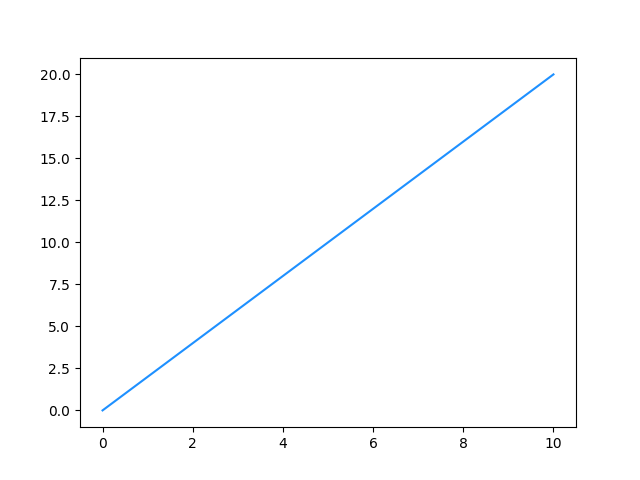
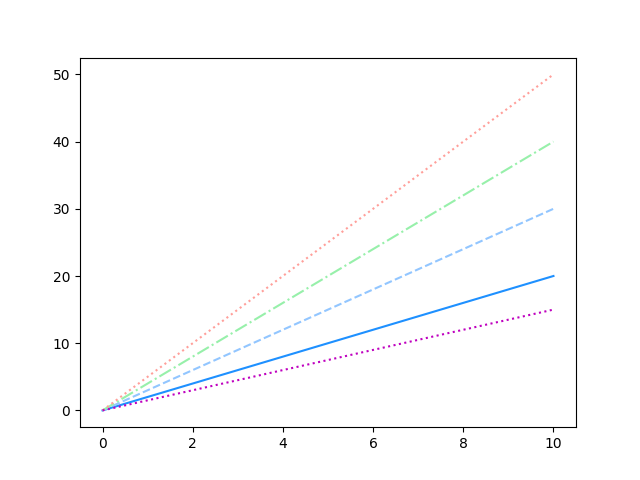
scatterplots

diff --git a/lineplot.py b/lineplot.py
@@ -18,6 +18,7 @@ plt.plot(x_vals, np.cos(x_vals))
 
 # Save figure as PNG in current directory
 plt.savefig('lineplot.png')
+plt.close() # clear the plot before making another
 
 # Alternatively, set up a Figure OBJECT for the plot
 fig = plt.figure()
@@ -25,7 +26,31 @@ ax = plt.axes()
 
 # Plot a function on the Axes object instance
 ax.plot(x_vals, 2*(x_vals), color='dodgerblue')
+ax.plot(x_vals, 3*(x_vals), linestyle='dashed')
+ax.plot(x_vals, 4*(x_vals), linestyle='dashdot')
+ax.plot(x_vals, 5*(x_vals), linestyle='dotted')
+
+# You can use shortcuts to define color & style
+ax.plot(x_vals, 1.5*(x_vals), ':m')
 
 fig.savefig('lineplot2.png')
+plt.close() # Close old plot before making new one
+
+# Demo on customization
+plt.plot(x_vals, np.sin(x_vals), '-.m', label="sin(x)")
+plt.xlim(-1, 11)
+plt.ylim(-1.5, 1.5)
+# Set axis to tight to fit your plot better
+plt.axis('tight')
+# other options: 'equal', 'image', etc.
+
+# Add TITLES/LABELS
+plt.title("A Sine Wave")
+plt.xlabel("x")
+plt.ylabel("sin(x)")
+
+# Add LEGEND
+plt.legend()
+plt.savefig('lineplot3.png')
 
 

diff --git a/scatterplot.py b/scatterplot.py
@@ -1,0 +1,35 @@
+import matplotlib.pyplot as plt
+import numpy as np
+from sklearn.datasets import load_iris
+
+plt.style.use('seaborn-v0_8-pastel')
+
+# Generate data points
+rng = np.random.default_rng(0)
+x = rng.normal(size=100)
+y = rng.normal(size=100)
+colors = rng.random(100)
+sizes = 1000 * rng.random(100)
+
+# Scatterplot function
+# alpha sets the opacity of the point
+plt.scatter(x, y, c=colors, s=sizes, alpha=0.3)
+plt.colorbar() # show color scale
+
+# Save figure
+plt.savefig('scatterplot.png')
+plt.close()
+
+# Scatterplot from Iris data
+iris = load_iris()
+features = iris.data.T # Transposes data (switch r & c)
+plt.scatter(features[0], features[1], alpha=0.4, s=100*features[3], c=iris.target, cmap = 'viridis')
+plt.xlabel(iris.feature_names[0])
+plt.ylabel(iris.feature_names[1])
+plt.savefig('iris-scatter.png')
+
+# 4 different properties observed!
+# 1. length (position on x axis)
+# 2. width (position on y axis)
+# 3. petal width (dot size)
+# 4. species (color)
